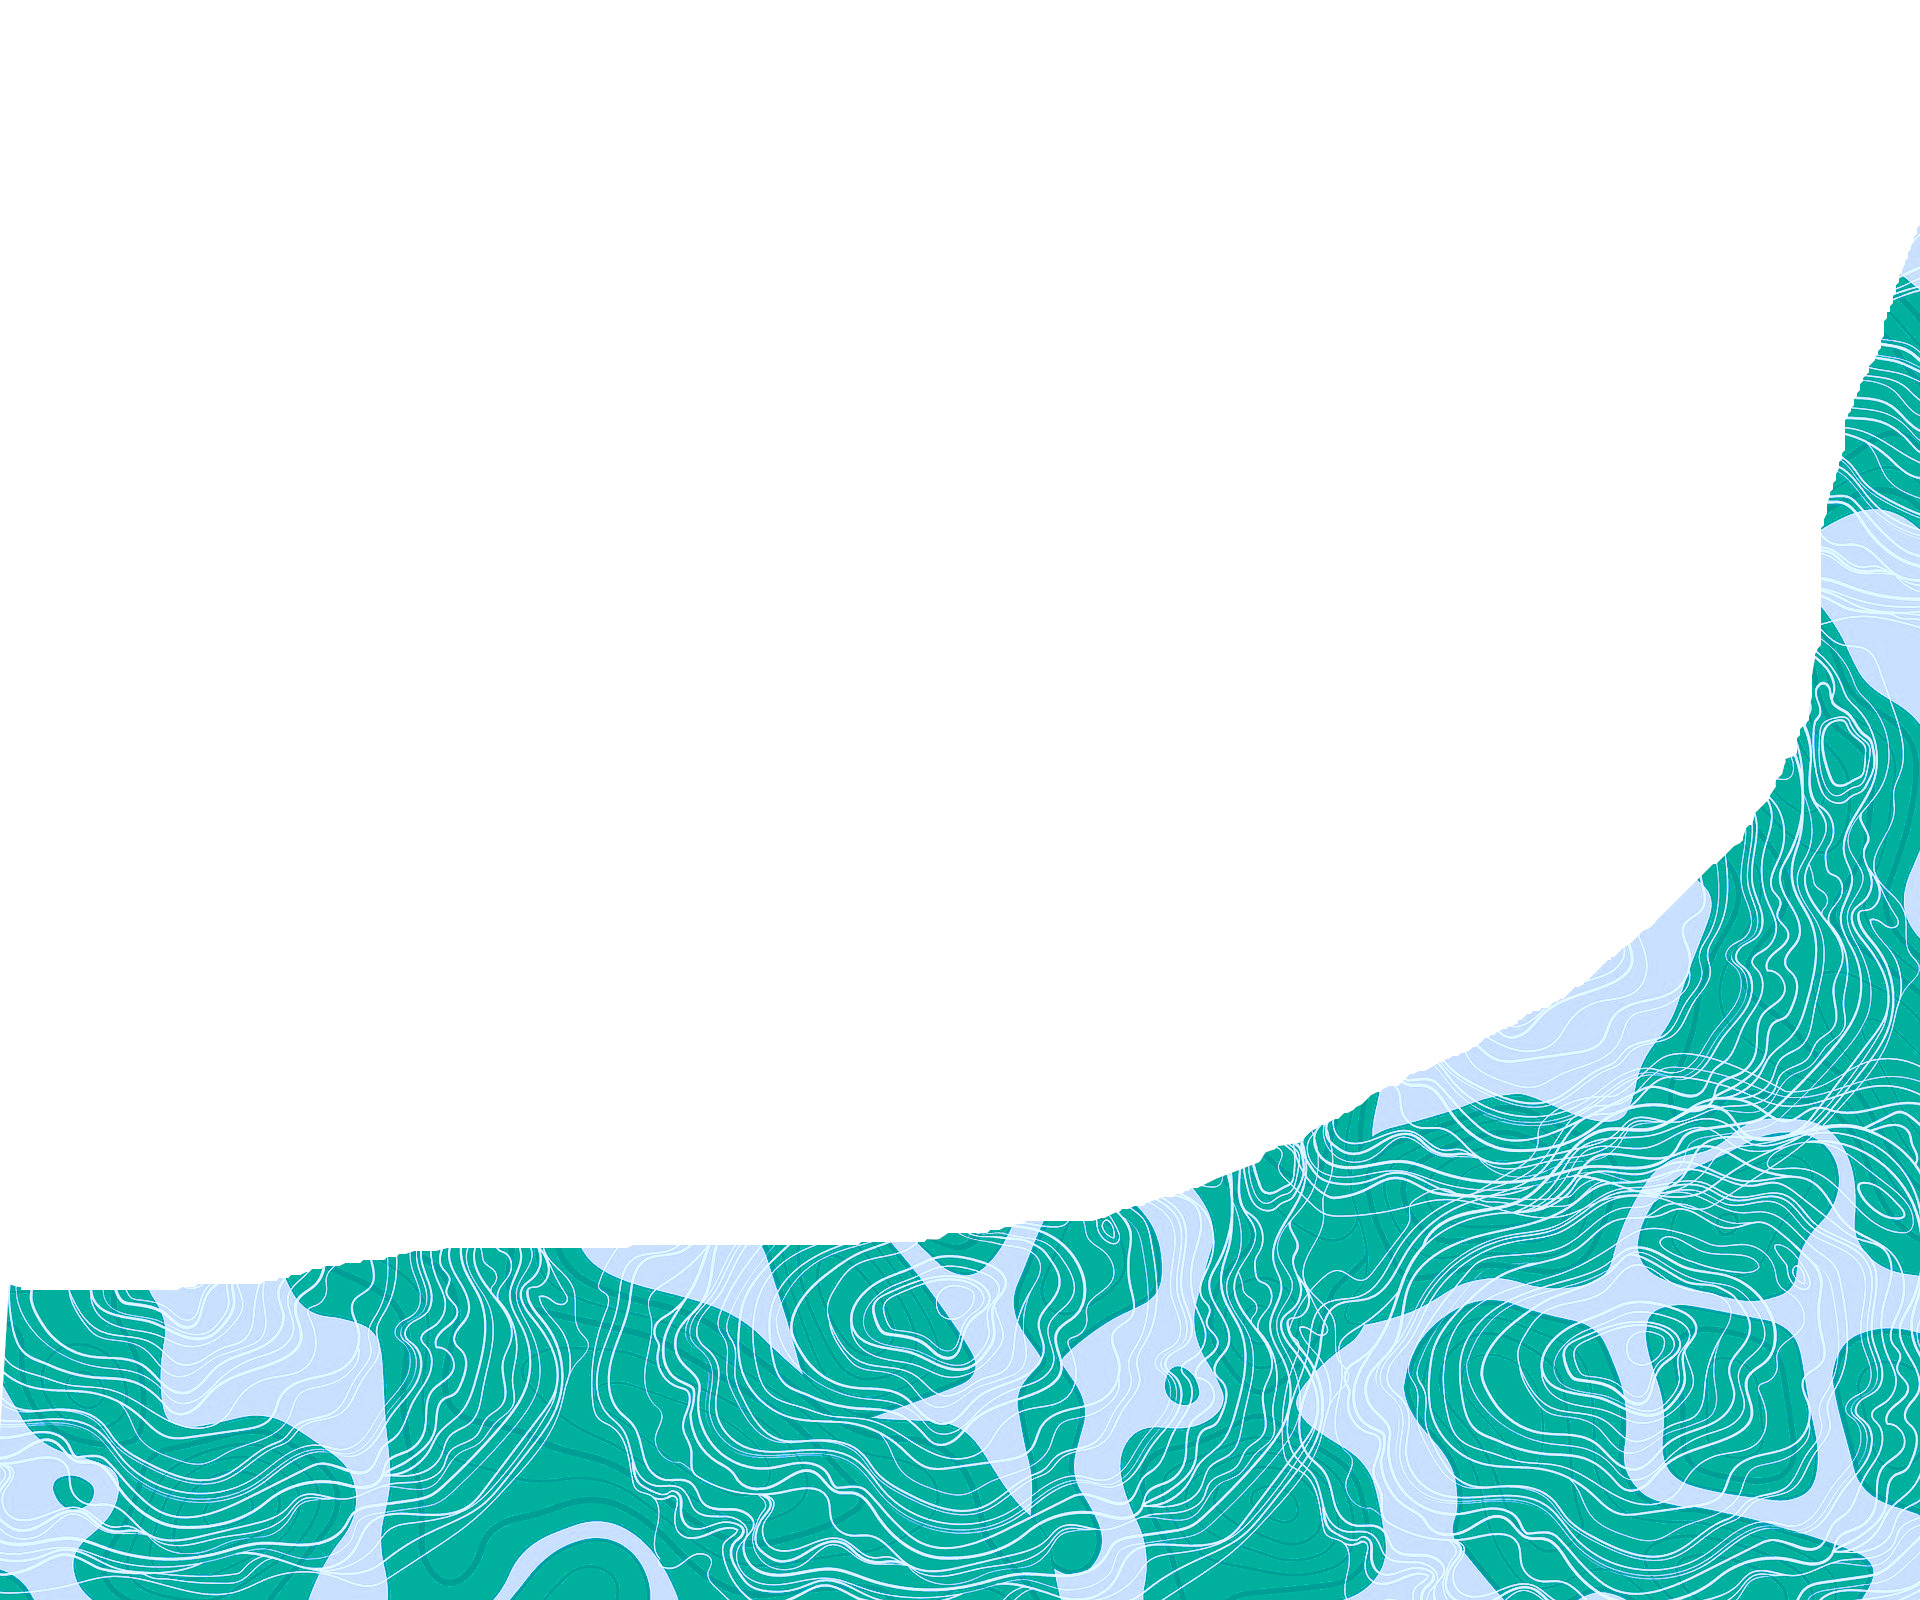
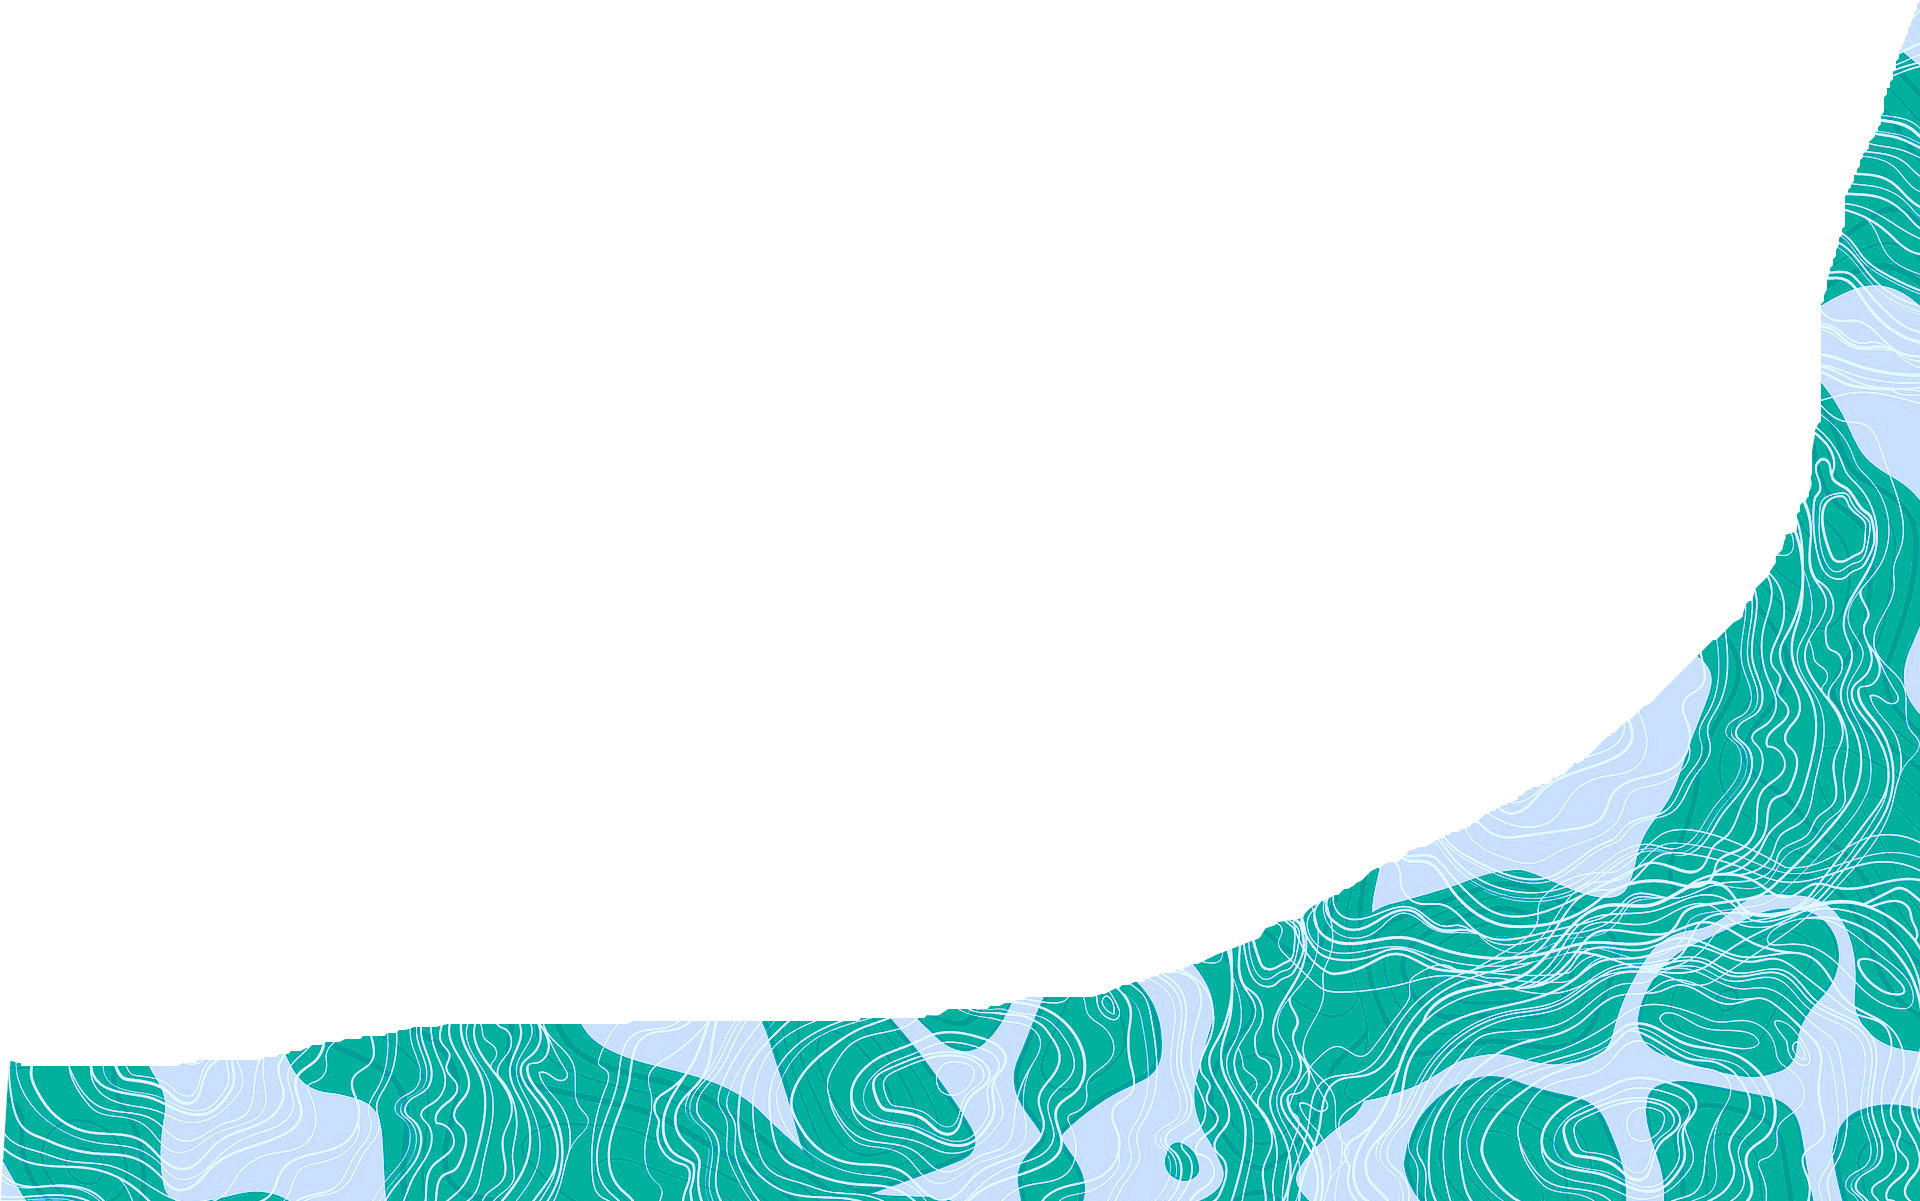
Created new landing page

Changed region(s): [[0.0, 0.0, 1.0, 1.0]]

diff --git a/src/components/FrontPageHero/index.js b/src/components/FrontPageHero/index.js
@@ -1,8 +1,8 @@
-import { Box, Flex, Heading, Stack, Button, Image, Badge, Divider } from "@chakra-ui/react";
+import { Box, Flex, Heading, Stack, Container, Button, Image, Badge, Divider, InputLeftElement, FormControl, Input, InputGroup, Text, Center, position } from "@chakra-ui/react";
 
 // COMPONENTS
 import BookmarkHeader from "../ui/BookmarkHeader"
-
+import PageDesignWaves from "../ui/PageDesignWaves"
 
 // LIBS / UTILITIES
 import FetchBook from "../../lib/FetchBook";
@@ -12,65 +12,86 @@ import FetchBook from "../../lib/FetchBook";
 import bgHero from "../../images/backgrounds/Hero-Book.png";
 import bgHero2 from "../../images/backgrounds/Hero-2.png";
 import bgHero3 from "../../images/backgrounds/icon-347230_1920.png";
-import bg from "../../images/backgrounds/Abstract-4.jpg";
 import "./styles.css"
 // import bgHeroB from "../../images/backgrounds/book-5831278_1920.jpg";
+import splashBook from "../../images/hero/hero-half-book.png"
 
 // ICONS
-import { BsFillArrowDownCircleFill, BsSearchHeartFill } from "react-icons/bs";
+import { BsFillArrowDownCircleFill } from "react-icons/bs";
+import { BiSearch } from "react-icons/bi";
 import { color } from "framer-motion";
 
 function FrontPageHero() {
   return (
     <>
 
-      <br />
-      <br />
-      <br />
-      <br />
-      <FetchBook />
-      <br />
-      <br />
-      <br />
-      <Heading color={"darkcyan"} mb={6} textAlign={"center"} size={"3xl"} margin={{ bottom: 10 }} >
-        Find your perfect book.
-      </Heading>
-      <Flex
-        direction={{
-          base: "row",
-          lg: "row",
-          md: "column-reverse",
-          sm: "column-reverse",
-        }}
-        justify={"center"}
-        align={"center"}
-        mb={12}
-      >
-        <Box w={{ base: "20%", lg: "20%", md: "60%", sm: "60%" }}>
-          <Heading color={"darkcyan"} mb={4}>
-            Looking for a book has never been easier.
-          </Heading>
-          <Stack direction="row" spacing={4} align="center">
-            <Button
-              leftIcon={<BsFillArrowDownCircleFill />}
-              colorScheme="teal"
-              variant="solid"
-            >
-              Tell Me More!
-            </Button>
-            <Button
-              colorScheme="teal"
-              variant="outline"
-              rightIcon={<BsSearchHeartFill />}
-            >
-              Search
-            </Button>
+      {/* <Box w={"100%"} h={"900px"} position={"absolute"} backgroundColor={"rgba(0,139,139,0.6)"} style={{ clipPath: " polygon(0% 98.25%, 0% 52.5%, 50% 81.25%, 100% 51.5%, 100% 97.25%)" }} /> */}
+      {/* <Box w={"100%"} h={"900px"} position={"absolute"} backgroundColor={"rgba(0,139,139,0.3)"} style={{ clipPath: " polygon(0% 95.25%, 0% 50.5%, 50% 81.25%, 100% 49.5%, 100% 95.25%)" }} /> */}
+      {/* <Box w={"100%"} h={"900px"} position={"absolute"} backgroundColor={"rgba(0,139,139,0.2)"} style={{ clipPath: " polygon(0% 95.25%, 0% 50.5%, 50% 81.25%, 100% 49.5%, 100% 95.25%)" }} /> */}
+      {/* <Box w={"100%"} h={"900px"} position={"absolute"} backgroundColor={"rgba(0,139,139,0.18)"} style={{ clipPath: " polygon(0% 95.25%, 0% 47.5%, 50% 81.25%, 100% 48.5%, 100% 97.25%)" }} /> */}
+      {/* <Box w={"100%"} h={"900px"} position={"absolute"} backgroundColor={"rgba(0,139,139,0.15)"} style={{ clipPath: " polygon(0% 94%, 0% 46%, 50% 81.25%, 100% 47%, 100% 96%)" }} /> */}
+      {/* <Box w={"100%"} h={"900px"} position={"absolute"} backgroundColor={"rgba(0,139,139,1)"} style={{ clipPath: " polygon(0% 99.25%, 0% 54.5%, 50% 81.25%, 100% 54.5%, 100% 99.25%)" }} /> */}
+
+
+
+      <Container height={"80vh"} maxW={"100%"} width={"100%"} p={0} m={0}>
+        <Center position={"relative"} zIndex={2}>
+          <Stack>
+            <Heading color={"darkcyan"} mb={4} textAlign={"center"} size={"3xl"} margin={{ bottom: 10 }} >
+            {/* <span style={{ color: "brown" }}>Find your </span> Perfect <span style={{backgroundColor:"darkcyan", color:"white"}}>Book.</span> */}
+              <span style={{ color: "#4d2f00" }}>Find your </span> Perfect Book.
+            </Heading>
+
+            <InputGroup mb={2} w={"80%"} alignSelf={"center"}>
+              <InputLeftElement pointerEvents='none'>
+                <BiSearch color='rgba(0,0,0,0.2)' size={"1.3em"} />
+              </InputLeftElement>
+              <Input type='text' placeholder='Type a Book Genre!' border={"2px"} borderColor={"darkcyan"} />
+            </InputGroup>
           </Stack>
-        </Box>
-        <Image src={bgHero} style={{ width: "385px", height: "auto" }} mb={6} />
-      </Flex>
-      <br />
-      <br />
+        </Center>
+        <Box position={"relative"} zIndex={1}>
+          <Flex
+            direction={{
+              base: "row",
+              lg: "row",
+              md: "column-reverse",
+              sm: "column-reverse",
+            }}
+            justify={"center"}
+            align={"center"}
+            mb={12}
+            position={"relative"}
+          >
+            <Box w={{ base: "20%", lg: "20%", md: "60%", sm: "60%" }}>
+
+              <Heading color={"darkcyan"} mb={4}>
+                Looking for a book has never been easier.
+              </Heading>
+              <Stack direction="row" spacing={4} align="center">
+                <Button
+                  colorScheme="teal"
+                  variant="solid"
+                >
+                  Tell Me More!
+                </Button>
+                <Button
+                  colorScheme="teal"
+                  variant="outline"
+                >
+                  About
+                </Button>
+              </Stack>
+            </Box>
+            <Image src={bgHero} style={{ width: "16%", height: "auto" }} mb={8} mt={6}/>
+          </Flex>
+          {/* <PageDesignWaves /> */}
+          <Box w={"100%"} h={"100px"} position={"absolute"} bottom={-2}>
+            <Image src={splashBook} alt="fuck off" h={"600px"} w={"100%"} m={0} p={0} />
+          </Box>
+        </Box >
+      </Container>
+      {/* <br />
       <br />
       <br />
       <br />
@@ -78,12 +99,12 @@ function FrontPageHero() {
       <Divider />
       <br />
       <br />
+      <br />
+      <br />
       <BookmarkHeader>
         Explore many book genres
       </BookmarkHeader>
-      {/* <Heading color={"darkcyan"} textAlign={"center"} mb={6}>
-        Explore many titles from every subject a book can be.
-      </Heading> */}
+
       <Flex
         direction={{
           base: "row",
@@ -155,7 +176,7 @@ function FrontPageHero() {
             <Button
               colorScheme="teal"
               variant="outline"
-              rightIcon={<BsSearchHeartFill />}
+              rightIcon={<BiSearch />}
             >
               Search
             </Button>
@@ -164,7 +185,7 @@ function FrontPageHero() {
       </Flex>
       <Divider />
       <br />
-      <br />
+      <br /> */}
     </>
   );
 }

diff --git a/src/components/ui/SHeader/SHeader.design.css b/src/components/ui/SHeader/SHeader.design.css
@@ -6,8 +6,9 @@
   } */
 
 .container {
-  background-image: url("../../images/backgrounds/wood-364693_1920.jpg");
-  background-color: #593802;
+  /* background-image: url("../../../images/backgrounds/wood-364693_1920.jpg"); */
+  /* background-color: #593802; */
+  background-color: #4d2f00;
   /* background-blend-mode: darken; */
   /* background-blend-mode: multiply; */
   background-blend-mode: luminosity;
@@ -28,7 +29,7 @@
     #57250c
   ); */
   z-index: 3;
-  margin-bottom: 70px;
+  margin-bottom: 70px; 
   /* width:100%; */
   /* box-shadow: 8px -11px 63px -13px rgba(0,0,0,0.78); */
   /* -webkit-box-shadow: 8px -11px 63px -13px rgba(0,0,0,0.78); */

diff --git a/src/components/ui/BookmarkHeader/styles.css b/src/components/ui/BookmarkHeader/styles.css
@@ -9,10 +9,11 @@
 }
 
 .bookmark-header-container img {
-  width: 700px;
+  width: 780px;
   height: 150px;
   z-index: 0;
   color: white;
+  /* transform: rotate(180deg); */
   filter: hue-rotate(180deg);
   /* filter: hue-rotate(80deg); */
   /* filter: hue-rotate(50deg); */
@@ -28,7 +29,8 @@
   /* width: 500px; */
   -webkit-text-stroke: 1.5px white;
   transition: 0.1s all ease-in-out;
-  font-size: 42px;
+  font-size: 45px;
+  /* font-size: 100%; */
   z-index: 0;
   word-wrap: break-word;
   top: 52px;

diff --git a/src/components/ui/PageDesignWaves/index.js b/src/components/ui/PageDesignWaves/index.js
@@ -1,0 +1,21 @@
+import { Box } from "@chakra-ui/react"
+
+// import WaveA from "../../../images/backgrounds/Abstract-5.jpg"
+import WaveA from "../../../images/backgrounds/bg-2.png"
+
+function PageDesignWaves(props) {
+
+
+    return (
+        <Box w={"100%"} display={"inline-block"} position={"absolute"} zIndex={0}>
+            {/* <img src={WaveA} alt="background"/> */}
+            <div className="border">
+asfasf
+            </div>
+        </Box>
+    )
+
+}
+
+
+export default PageDesignWaves;

diff --git a/src/App.js b/src/App.js
@@ -17,14 +17,21 @@ function App() {
     <ChakraProvider theme={theme}>
       {/* <Fonts /> */}
       <SHeader />
-      {/* <FrontPage /> */}
+      <FrontPage />
       <br />
       <br />
-      <br />
-      <br />
+ 
       {/* <BookSuggestionForm /> */}
       {/* <SearchResult /> */}
-      <SFooter />
+      {/* <br />
+      <br />
+      <br />
+      <br />
+      <br />
+      <br />
+      <br />
+      
+      <SFooter /> */}
     </ChakraProvider>
   );
 }

diff --git a/src/components/ui/SHeader/index.js b/src/components/ui/SHeader/index.js
@@ -9,7 +9,7 @@ import {
   Hide,
   Flex,
 } from "@chakra-ui/react";
-import Bookmark from "../../../../images/header/ribbon-1202755_1920.png";
+import Bookmark from "../../../images/header/ribbon-1202755_1920.png";
 import BookmarkMobile from "../../../images/header/ribbon-1202755_1920 - Mobile.png";
 import "./SHeader.design.css";
 import { ImMenu} from "react-icons/im";

diff --git a/src/components/FontPage/index.js b/src/components/FontPage/index.js
@@ -1,7 +1,9 @@
 import { Box, Flex, Heading, Stack, Button, Image } from "@chakra-ui/react";
 // import "./styles.css";
 import FrontPageHero from "../FrontPageHero";
+ 
 import FlipBook from "../FlipBook";
+import BookLoader from "../ui/BookLoader/BookLoader";
 
 function FrontPage() {
   return (

diff --git a/src/components/ui/PageDesignWaves/styles.css b/src/components/ui/PageDesignWaves/styles.css
@@ -1,0 +1,6 @@
+.border {
+    width: 200px;
+    clip-path: polygon(91.96% 76.88%, 92.02% 0.55%, 100% 0.56%, 100% 100%, 0% 100%, 0% 76.88%);
+    background-color: #007c61;
+    background-image: url("../../../images/backgrounds/bg-2.png");
+}

diff --git a/src/components/ui/BookLoader/BookLoader.js b/src/components/ui/BookLoader/BookLoader.js
@@ -1,5 +1,5 @@
 import "./BookLoader.design.css"
-
+// https://codepen.io/nxworld/pen/zwGpXr
 function BookLoader() {
     return (
         <div className="book-container">
